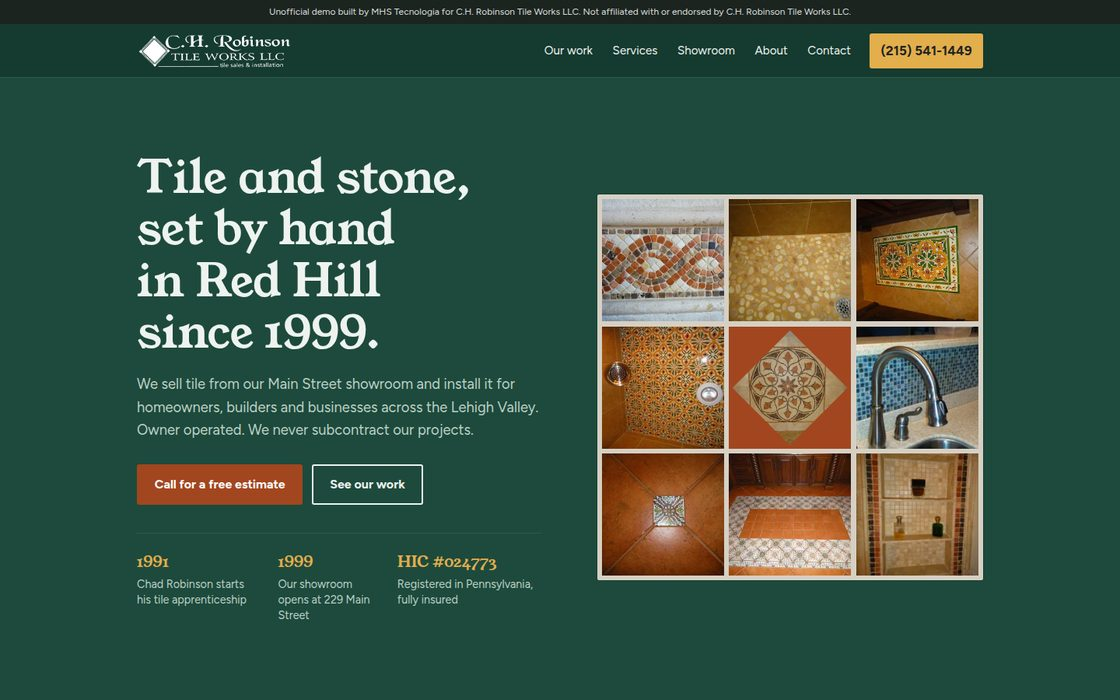
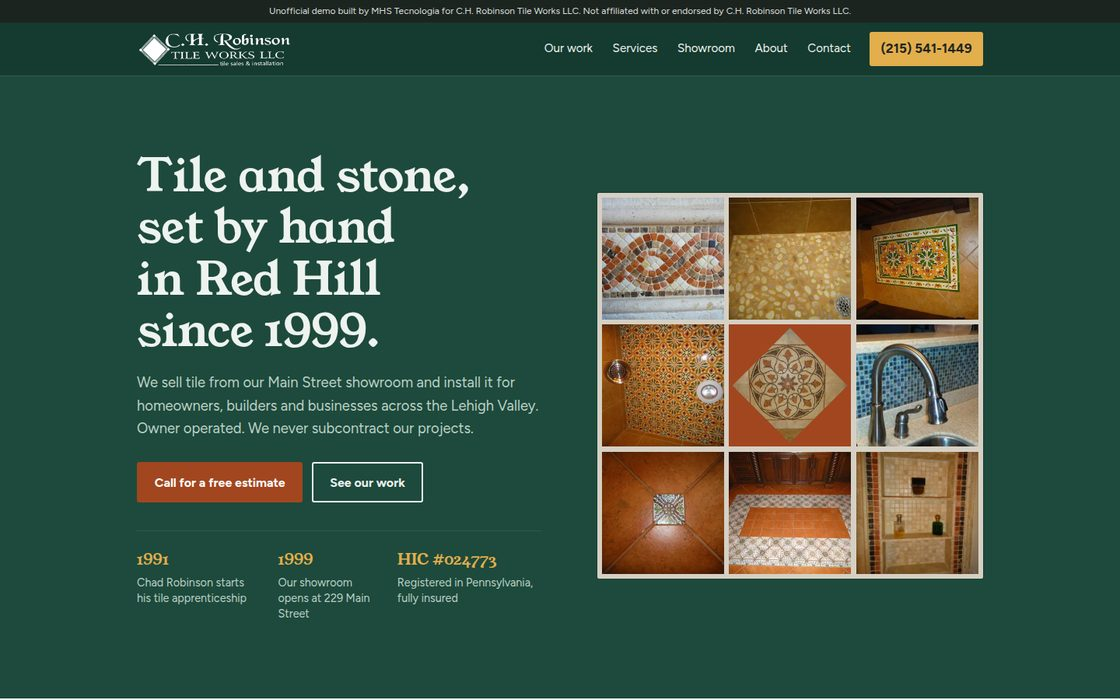
Previews: 18 ativos

diff --git a/ch-robinson-tile-works-red-hill-pa/index.html b/ch-robinson-tile-works-red-hill-pa/index.html
@@ -53,7 +53,7 @@
   .skip:focus { left: 1rem; }
   h1, h2, h3 { font-family: var(--serif); font-weight: 400; line-height: 1.12; letter-spacing: -.005em; text-wrap: balance; }
 
-  .demo { background: var(--ink); color: #d9ded9; font-size: .75rem; line-height: 1.4; padding: .45rem var(--pad); text-align: center; }
+  .demo { background: var(--ink); color: #d9ded9; font-size: .75rem; line-height: 1.35; padding: .4rem var(--pad); text-align: center; }
 
   /* header */
   .top { background: var(--green-2); color: var(--on-green); border-bottom: 1px solid var(--grout-dark); }
@@ -115,6 +115,7 @@
   .frame { padding: 8px; background: var(--grout); }
   .frame img { width: 100%; }
 
+  .listello { height: 22px; background-color: var(--grout); background-image: repeating-linear-gradient(90deg, var(--clay) 0 18px, var(--grout) 18px 22px, var(--green) 22px 40px, var(--grout) 40px 44px, var(--ochre) 44px 62px, var(--grout) 62px 66px, var(--green) 66px 84px, var(--grout) 84px 88px); background-size: 100% 18px; background-position: 0 2px; background-repeat: repeat-x; }
   .house { padding: 5rem 0; background: var(--paper); }
   .house-in { display: grid; grid-template-columns: minmax(0, 35rem) minmax(0, 1fr); gap: clamp(2rem, 5vw, 4.5rem); align-items: center; }
   .house h2 { font-size: clamp(1.6rem, 1.1rem + 1.5vw, 2.25rem); }
@@ -138,10 +139,11 @@
   .appt a { color: var(--clay); }
 
   .words { padding: 5rem 0; background: var(--bisque); border-top: 1px solid var(--grout); }
-  .quotes { margin-top: 2rem; display: grid; grid-template-columns: 2fr 1fr 1fr; gap: 6px; background: var(--grout); padding: 6px; }
-  .quotes blockquote { background: var(--paper); padding: 1.75rem; }
-  .quotes p { font-family: var(--serif); font-size: 1.2rem; line-height: 1.4; }
-  .quotes .q-big p { font-size: 1.45rem; }
+  .quotes { margin-top: 2rem; max-width: 48rem; }
+  .quotes blockquote { padding: 1.5rem 0 1.5rem 2.25rem; border-top: 1px solid var(--grout); position: relative; }
+  .quotes blockquote:last-child { border-bottom: 1px solid var(--grout); }
+  .quotes blockquote::before { content: ""; position: absolute; left: .35rem; top: 2.05rem; width: .7rem; height: .7rem; background: var(--clay); transform: rotate(45deg); }
+  .quotes p { font-family: var(--serif); font-size: 1.35rem; line-height: 1.4; }
   .quotes footer { margin-top: 1rem; font-size: .95rem; color: var(--muted); }
 
   .call { background: var(--green); color: var(--on-green); padding: 4rem 0; }
@@ -169,9 +171,11 @@
   /* showroom */
   .mats-sec { padding: 4.5rem 0; }
   .mats-in { display: grid; grid-template-columns: minmax(0, 22rem) minmax(0, 1fr); gap: clamp(2rem, 5vw, 4.5rem); }
-  .mats { margin-top: 1.25rem; display: grid; grid-template-columns: 1fr 1fr; gap: 6px; background: var(--grout); padding: 6px; }
-  .mats li { background: var(--paper); padding: .9rem 1rem; font-family: var(--serif); font-size: 1.15rem; }
-  .mats li:last-child:nth-child(odd) { grid-column: span 2; }
+  .mats { margin-top: 1.25rem; display: grid; grid-template-columns: 1fr 1fr; column-gap: 1.5rem; }
+  .mats li { position: relative; padding: .45rem 0 .45rem 1.5rem; font-family: var(--serif); font-size: 1.2rem; }
+  .mats li::before { content: ""; position: absolute; left: .15rem; top: .95rem; width: .62rem; height: .62rem; background: var(--clay); transform: rotate(45deg); }
+  .mats li:nth-child(3n+2)::before { background: var(--green); }
+  .mats li:nth-child(3n)::before { background: var(--ochre); }
   .mats-copy p { margin-top: 1rem; max-width: 38rem; color: var(--muted); }
   .mats-copy h2 { margin-top: 2.5rem; }
   .gal-sec .appt { margin-top: 1.5rem; }
@@ -240,7 +244,9 @@
     .phead-in.has-pic { grid-template-columns: 1fr; gap: 1.75rem; }
     .house-in, .shop-in, .mats-in, .story-in { grid-template-columns: 1fr; }
     .shop-in .frame { order: -1; }
-    .quotes { grid-template-columns: 1fr; }
+    .quotes p { font-size: 1.2rem; }
+    .quotes blockquote { padding-left: 1.9rem; }
+    .demo { font-size: .64rem; line-height: 1.3; padding: .3rem .5rem; }
     .reach-in { grid-template-columns: 1fr; }
     .svcs { grid-template-columns: 1fr; }
     .foot-in { grid-template-columns: 1fr; }
@@ -342,6 +348,7 @@
   </div>
 </section>
 
+<div class="listello" aria-hidden="true"></div>
 <section class="rooms-sec">
   <div class="wrap">
     <h2 class="sec-h">What we install</h2>
@@ -372,6 +379,7 @@
   </div>
 </section>
 
+<div class="listello" aria-hidden="true"></div>
 <section class="shop">
   <div class="wrap shop-in">
     <div class="shop-copy">
@@ -387,11 +395,12 @@
   </div>
 </section>
 
+<div class="listello" aria-hidden="true"></div>
 <section class="words">
   <div class="wrap">
     <h2 class="sec-h">From our customers</h2>
     <div class="quotes">
-      <blockquote class="q-big"><p>The dining room floor looks great. The guys put tarps down each morning and cleaned up at the end of each day. They laid the tile as if it was their own house.</p><footer>Grey G., Telford, PA</footer></blockquote>
+      <blockquote><p>The dining room floor looks great. The guys put tarps down each morning and cleaned up at the end of each day. They laid the tile as if it was their own house.</p><footer>Grey G., Telford, PA</footer></blockquote>
       <blockquote><p>Saw the work they did in my father’s house. Very nice work! Would highly recommend!</p></blockquote>
       <blockquote><p>Great people, awesome work!</p></blockquote>
     </div>

diff --git a/ch-robinson-tile-works-red-hill-pa/contact.html b/ch-robinson-tile-works-red-hill-pa/contact.html
@@ -53,7 +53,7 @@
   .skip:focus { left: 1rem; }
   h1, h2, h3 { font-family: var(--serif); font-weight: 400; line-height: 1.12; letter-spacing: -.005em; text-wrap: balance; }
 
-  .demo { background: var(--ink); color: #d9ded9; font-size: .75rem; line-height: 1.4; padding: .45rem var(--pad); text-align: center; }
+  .demo { background: var(--ink); color: #d9ded9; font-size: .75rem; line-height: 1.35; padding: .4rem var(--pad); text-align: center; }
 
   /* header */
   .top { background: var(--green-2); color: var(--on-green); border-bottom: 1px solid var(--grout-dark); }
@@ -115,6 +115,7 @@
   .frame { padding: 8px; background: var(--grout); }
   .frame img { width: 100%; }
 
+  .listello { height: 22px; background-color: var(--grout); background-image: repeating-linear-gradient(90deg, var(--clay) 0 18px, var(--grout) 18px 22px, var(--green) 22px 40px, var(--grout) 40px 44px, var(--ochre) 44px 62px, var(--grout) 62px 66px, var(--green) 66px 84px, var(--grout) 84px 88px); background-size: 100% 18px; background-position: 0 2px; background-repeat: repeat-x; }
   .house { padding: 5rem 0; background: var(--paper); }
   .house-in { display: grid; grid-template-columns: minmax(0, 35rem) minmax(0, 1fr); gap: clamp(2rem, 5vw, 4.5rem); align-items: center; }
   .house h2 { font-size: clamp(1.6rem, 1.1rem + 1.5vw, 2.25rem); }
@@ -138,10 +139,11 @@
   .appt a { color: var(--clay); }
 
   .words { padding: 5rem 0; background: var(--bisque); border-top: 1px solid var(--grout); }
-  .quotes { margin-top: 2rem; display: grid; grid-template-columns: 2fr 1fr 1fr; gap: 6px; background: var(--grout); padding: 6px; }
-  .quotes blockquote { background: var(--paper); padding: 1.75rem; }
-  .quotes p { font-family: var(--serif); font-size: 1.2rem; line-height: 1.4; }
-  .quotes .q-big p { font-size: 1.45rem; }
+  .quotes { margin-top: 2rem; max-width: 48rem; }
+  .quotes blockquote { padding: 1.5rem 0 1.5rem 2.25rem; border-top: 1px solid var(--grout); position: relative; }
+  .quotes blockquote:last-child { border-bottom: 1px solid var(--grout); }
+  .quotes blockquote::before { content: ""; position: absolute; left: .35rem; top: 2.05rem; width: .7rem; height: .7rem; background: var(--clay); transform: rotate(45deg); }
+  .quotes p { font-family: var(--serif); font-size: 1.35rem; line-height: 1.4; }
   .quotes footer { margin-top: 1rem; font-size: .95rem; color: var(--muted); }
 
   .call { background: var(--green); color: var(--on-green); padding: 4rem 0; }
@@ -169,9 +171,11 @@
   /* showroom */
   .mats-sec { padding: 4.5rem 0; }
   .mats-in { display: grid; grid-template-columns: minmax(0, 22rem) minmax(0, 1fr); gap: clamp(2rem, 5vw, 4.5rem); }
-  .mats { margin-top: 1.25rem; display: grid; grid-template-columns: 1fr 1fr; gap: 6px; background: var(--grout); padding: 6px; }
-  .mats li { background: var(--paper); padding: .9rem 1rem; font-family: var(--serif); font-size: 1.15rem; }
-  .mats li:last-child:nth-child(odd) { grid-column: span 2; }
+  .mats { margin-top: 1.25rem; display: grid; grid-template-columns: 1fr 1fr; column-gap: 1.5rem; }
+  .mats li { position: relative; padding: .45rem 0 .45rem 1.5rem; font-family: var(--serif); font-size: 1.2rem; }
+  .mats li::before { content: ""; position: absolute; left: .15rem; top: .95rem; width: .62rem; height: .62rem; background: var(--clay); transform: rotate(45deg); }
+  .mats li:nth-child(3n+2)::before { background: var(--green); }
+  .mats li:nth-child(3n)::before { background: var(--ochre); }
   .mats-copy p { margin-top: 1rem; max-width: 38rem; color: var(--muted); }
   .mats-copy h2 { margin-top: 2.5rem; }
   .gal-sec .appt { margin-top: 1.5rem; }
@@ -240,7 +244,9 @@
     .phead-in.has-pic { grid-template-columns: 1fr; gap: 1.75rem; }
     .house-in, .shop-in, .mats-in, .story-in { grid-template-columns: 1fr; }
     .shop-in .frame { order: -1; }
-    .quotes { grid-template-columns: 1fr; }
+    .quotes p { font-size: 1.2rem; }
+    .quotes blockquote { padding-left: 1.9rem; }
+    .demo { font-size: .64rem; line-height: 1.3; padding: .3rem .5rem; }
     .reach-in { grid-template-columns: 1fr; }
     .svcs { grid-template-columns: 1fr; }
     .foot-in { grid-template-columns: 1fr; }
@@ -322,7 +328,7 @@
     <div class="reach-card">
       <h2>Email</h2>
       <p><a class="big mail" href="mailto:chad@chrobinsontileworks.com">chad@chrobinsontileworks.com</a></p>
-      <p class="muted">Tell us about the room. Photos are welcome.</p>
+      <p class="muted">What to send Chad: which room it is, roughly how big, and a photo of it as it is now, plus any tile you already have in mind.</p>
     </div>
     <div class="reach-card">
       <h2>Showroom</h2>

diff --git a/ch-robinson-tile-works-red-hill-pa/about.html b/ch-robinson-tile-works-red-hill-pa/about.html
@@ -53,7 +53,7 @@
   .skip:focus { left: 1rem; }
   h1, h2, h3 { font-family: var(--serif); font-weight: 400; line-height: 1.12; letter-spacing: -.005em; text-wrap: balance; }
 
-  .demo { background: var(--ink); color: #d9ded9; font-size: .75rem; line-height: 1.4; padding: .45rem var(--pad); text-align: center; }
+  .demo { background: var(--ink); color: #d9ded9; font-size: .75rem; line-height: 1.35; padding: .4rem var(--pad); text-align: center; }
 
   /* header */
   .top { background: var(--green-2); color: var(--on-green); border-bottom: 1px solid var(--grout-dark); }
@@ -115,6 +115,7 @@
   .frame { padding: 8px; background: var(--grout); }
   .frame img { width: 100%; }
 
+  .listello { height: 22px; background-color: var(--grout); background-image: repeating-linear-gradient(90deg, var(--clay) 0 18px, var(--grout) 18px 22px, var(--green) 22px 40px, var(--grout) 40px 44px, var(--ochre) 44px 62px, var(--grout) 62px 66px, var(--green) 66px 84px, var(--grout) 84px 88px); background-size: 100% 18px; background-position: 0 2px; background-repeat: repeat-x; }
   .house { padding: 5rem 0; background: var(--paper); }
   .house-in { display: grid; grid-template-columns: minmax(0, 35rem) minmax(0, 1fr); gap: clamp(2rem, 5vw, 4.5rem); align-items: center; }
   .house h2 { font-size: clamp(1.6rem, 1.1rem + 1.5vw, 2.25rem); }
@@ -138,10 +139,11 @@
   .appt a { color: var(--clay); }
 
   .words { padding: 5rem 0; background: var(--bisque); border-top: 1px solid var(--grout); }
-  .quotes { margin-top: 2rem; display: grid; grid-template-columns: 2fr 1fr 1fr; gap: 6px; background: var(--grout); padding: 6px; }
-  .quotes blockquote { background: var(--paper); padding: 1.75rem; }
-  .quotes p { font-family: var(--serif); font-size: 1.2rem; line-height: 1.4; }
-  .quotes .q-big p { font-size: 1.45rem; }
+  .quotes { margin-top: 2rem; max-width: 48rem; }
+  .quotes blockquote { padding: 1.5rem 0 1.5rem 2.25rem; border-top: 1px solid var(--grout); position: relative; }
+  .quotes blockquote:last-child { border-bottom: 1px solid var(--grout); }
+  .quotes blockquote::before { content: ""; position: absolute; left: .35rem; top: 2.05rem; width: .7rem; height: .7rem; background: var(--clay); transform: rotate(45deg); }
+  .quotes p { font-family: var(--serif); font-size: 1.35rem; line-height: 1.4; }
   .quotes footer { margin-top: 1rem; font-size: .95rem; color: var(--muted); }
 
   .call { background: var(--green); color: var(--on-green); padding: 4rem 0; }
@@ -169,9 +171,11 @@
   /* showroom */
   .mats-sec { padding: 4.5rem 0; }
   .mats-in { display: grid; grid-template-columns: minmax(0, 22rem) minmax(0, 1fr); gap: clamp(2rem, 5vw, 4.5rem); }
-  .mats { margin-top: 1.25rem; display: grid; grid-template-columns: 1fr 1fr; gap: 6px; background: var(--grout); padding: 6px; }
-  .mats li { background: var(--paper); padding: .9rem 1rem; font-family: var(--serif); font-size: 1.15rem; }
-  .mats li:last-child:nth-child(odd) { grid-column: span 2; }
+  .mats { margin-top: 1.25rem; display: grid; grid-template-columns: 1fr 1fr; column-gap: 1.5rem; }
+  .mats li { position: relative; padding: .45rem 0 .45rem 1.5rem; font-family: var(--serif); font-size: 1.2rem; }
+  .mats li::before { content: ""; position: absolute; left: .15rem; top: .95rem; width: .62rem; height: .62rem; background: var(--clay); transform: rotate(45deg); }
+  .mats li:nth-child(3n+2)::before { background: var(--green); }
+  .mats li:nth-child(3n)::before { background: var(--ochre); }
   .mats-copy p { margin-top: 1rem; max-width: 38rem; color: var(--muted); }
   .mats-copy h2 { margin-top: 2.5rem; }
   .gal-sec .appt { margin-top: 1.5rem; }
@@ -240,7 +244,9 @@
     .phead-in.has-pic { grid-template-columns: 1fr; gap: 1.75rem; }
     .house-in, .shop-in, .mats-in, .story-in { grid-template-columns: 1fr; }
     .shop-in .frame { order: -1; }
-    .quotes { grid-template-columns: 1fr; }
+    .quotes p { font-size: 1.2rem; }
+    .quotes blockquote { padding-left: 1.9rem; }
+    .demo { font-size: .64rem; line-height: 1.3; padding: .3rem .5rem; }
     .reach-in { grid-template-columns: 1fr; }
     .svcs { grid-template-columns: 1fr; }
     .foot-in { grid-template-columns: 1fr; }

diff --git a/ch-robinson-tile-works-red-hill-pa/services.html b/ch-robinson-tile-works-red-hill-pa/services.html
@@ -53,7 +53,7 @@
   .skip:focus { left: 1rem; }
   h1, h2, h3 { font-family: var(--serif); font-weight: 400; line-height: 1.12; letter-spacing: -.005em; text-wrap: balance; }
 
-  .demo { background: var(--ink); color: #d9ded9; font-size: .75rem; line-height: 1.4; padding: .45rem var(--pad); text-align: center; }
+  .demo { background: var(--ink); color: #d9ded9; font-size: .75rem; line-height: 1.35; padding: .4rem var(--pad); text-align: center; }
 
   /* header */
   .top { background: var(--green-2); color: var(--on-green); border-bottom: 1px solid var(--grout-dark); }
@@ -115,6 +115,7 @@
   .frame { padding: 8px; background: var(--grout); }
   .frame img { width: 100%; }
 
+  .listello { height: 22px; background-color: var(--grout); background-image: repeating-linear-gradient(90deg, var(--clay) 0 18px, var(--grout) 18px 22px, var(--green) 22px 40px, var(--grout) 40px 44px, var(--ochre) 44px 62px, var(--grout) 62px 66px, var(--green) 66px 84px, var(--grout) 84px 88px); background-size: 100% 18px; background-position: 0 2px; background-repeat: repeat-x; }
   .house { padding: 5rem 0; background: var(--paper); }
   .house-in { display: grid; grid-template-columns: minmax(0, 35rem) minmax(0, 1fr); gap: clamp(2rem, 5vw, 4.5rem); align-items: center; }
   .house h2 { font-size: clamp(1.6rem, 1.1rem + 1.5vw, 2.25rem); }
@@ -138,10 +139,11 @@
   .appt a { color: var(--clay); }
 
   .words { padding: 5rem 0; background: var(--bisque); border-top: 1px solid var(--grout); }
-  .quotes { margin-top: 2rem; display: grid; grid-template-columns: 2fr 1fr 1fr; gap: 6px; background: var(--grout); padding: 6px; }
-  .quotes blockquote { background: var(--paper); padding: 1.75rem; }
-  .quotes p { font-family: var(--serif); font-size: 1.2rem; line-height: 1.4; }
-  .quotes .q-big p { font-size: 1.45rem; }
+  .quotes { margin-top: 2rem; max-width: 48rem; }
+  .quotes blockquote { padding: 1.5rem 0 1.5rem 2.25rem; border-top: 1px solid var(--grout); position: relative; }
+  .quotes blockquote:last-child { border-bottom: 1px solid var(--grout); }
+  .quotes blockquote::before { content: ""; position: absolute; left: .35rem; top: 2.05rem; width: .7rem; height: .7rem; background: var(--clay); transform: rotate(45deg); }
+  .quotes p { font-family: var(--serif); font-size: 1.35rem; line-height: 1.4; }
   .quotes footer { margin-top: 1rem; font-size: .95rem; color: var(--muted); }
 
   .call { background: var(--green); color: var(--on-green); padding: 4rem 0; }
@@ -169,9 +171,11 @@
   /* showroom */
   .mats-sec { padding: 4.5rem 0; }
   .mats-in { display: grid; grid-template-columns: minmax(0, 22rem) minmax(0, 1fr); gap: clamp(2rem, 5vw, 4.5rem); }
-  .mats { margin-top: 1.25rem; display: grid; grid-template-columns: 1fr 1fr; gap: 6px; background: var(--grout); padding: 6px; }
-  .mats li { background: var(--paper); padding: .9rem 1rem; font-family: var(--serif); font-size: 1.15rem; }
-  .mats li:last-child:nth-child(odd) { grid-column: span 2; }
+  .mats { margin-top: 1.25rem; display: grid; grid-template-columns: 1fr 1fr; column-gap: 1.5rem; }
+  .mats li { position: relative; padding: .45rem 0 .45rem 1.5rem; font-family: var(--serif); font-size: 1.2rem; }
+  .mats li::before { content: ""; position: absolute; left: .15rem; top: .95rem; width: .62rem; height: .62rem; background: var(--clay); transform: rotate(45deg); }
+  .mats li:nth-child(3n+2)::before { background: var(--green); }
+  .mats li:nth-child(3n)::before { background: var(--ochre); }
   .mats-copy p { margin-top: 1rem; max-width: 38rem; color: var(--muted); }
   .mats-copy h2 { margin-top: 2.5rem; }
   .gal-sec .appt { margin-top: 1.5rem; }
@@ -240,7 +244,9 @@
     .phead-in.has-pic { grid-template-columns: 1fr; gap: 1.75rem; }
     .house-in, .shop-in, .mats-in, .story-in { grid-template-columns: 1fr; }
     .shop-in .frame { order: -1; }
-    .quotes { grid-template-columns: 1fr; }
+    .quotes p { font-size: 1.2rem; }
+    .quotes blockquote { padding-left: 1.9rem; }
+    .demo { font-size: .64rem; line-height: 1.3; padding: .3rem .5rem; }
     .reach-in { grid-template-columns: 1fr; }
     .svcs { grid-template-columns: 1fr; }
     .foot-in { grid-template-columns: 1fr; }

diff --git a/ch-robinson-tile-works-red-hill-pa/showroom.html b/ch-robinson-tile-works-red-hill-pa/showroom.html
@@ -53,7 +53,7 @@
   .skip:focus { left: 1rem; }
   h1, h2, h3 { font-family: var(--serif); font-weight: 400; line-height: 1.12; letter-spacing: -.005em; text-wrap: balance; }
 
-  .demo { background: var(--ink); color: #d9ded9; font-size: .75rem; line-height: 1.4; padding: .45rem var(--pad); text-align: center; }
+  .demo { background: var(--ink); color: #d9ded9; font-size: .75rem; line-height: 1.35; padding: .4rem var(--pad); text-align: center; }
 
   /* header */
   .top { background: var(--green-2); color: var(--on-green); border-bottom: 1px solid var(--grout-dark); }
@@ -115,6 +115,7 @@
   .frame { padding: 8px; background: var(--grout); }
   .frame img { width: 100%; }
 
+  .listello { height: 22px; background-color: var(--grout); background-image: repeating-linear-gradient(90deg, var(--clay) 0 18px, var(--grout) 18px 22px, var(--green) 22px 40px, var(--grout) 40px 44px, var(--ochre) 44px 62px, var(--grout) 62px 66px, var(--green) 66px 84px, var(--grout) 84px 88px); background-size: 100% 18px; background-position: 0 2px; background-repeat: repeat-x; }
   .house { padding: 5rem 0; background: var(--paper); }
   .house-in { display: grid; grid-template-columns: minmax(0, 35rem) minmax(0, 1fr); gap: clamp(2rem, 5vw, 4.5rem); align-items: center; }
   .house h2 { font-size: clamp(1.6rem, 1.1rem + 1.5vw, 2.25rem); }
@@ -138,10 +139,11 @@
   .appt a { color: var(--clay); }
 
   .words { padding: 5rem 0; background: var(--bisque); border-top: 1px solid var(--grout); }
-  .quotes { margin-top: 2rem; display: grid; grid-template-columns: 2fr 1fr 1fr; gap: 6px; background: var(--grout); padding: 6px; }
-  .quotes blockquote { background: var(--paper); padding: 1.75rem; }
-  .quotes p { font-family: var(--serif); font-size: 1.2rem; line-height: 1.4; }
-  .quotes .q-big p { font-size: 1.45rem; }
+  .quotes { margin-top: 2rem; max-width: 48rem; }
+  .quotes blockquote { padding: 1.5rem 0 1.5rem 2.25rem; border-top: 1px solid var(--grout); position: relative; }
+  .quotes blockquote:last-child { border-bottom: 1px solid var(--grout); }
+  .quotes blockquote::before { content: ""; position: absolute; left: .35rem; top: 2.05rem; width: .7rem; height: .7rem; background: var(--clay); transform: rotate(45deg); }
+  .quotes p { font-family: var(--serif); font-size: 1.35rem; line-height: 1.4; }
   .quotes footer { margin-top: 1rem; font-size: .95rem; color: var(--muted); }
 
   .call { background: var(--green); color: var(--on-green); padding: 4rem 0; }
@@ -169,9 +171,11 @@
   /* showroom */
   .mats-sec { padding: 4.5rem 0; }
   .mats-in { display: grid; grid-template-columns: minmax(0, 22rem) minmax(0, 1fr); gap: clamp(2rem, 5vw, 4.5rem); }
-  .mats { margin-top: 1.25rem; display: grid; grid-template-columns: 1fr 1fr; gap: 6px; background: var(--grout); padding: 6px; }
-  .mats li { background: var(--paper); padding: .9rem 1rem; font-family: var(--serif); font-size: 1.15rem; }
-  .mats li:last-child:nth-child(odd) { grid-column: span 2; }
+  .mats { margin-top: 1.25rem; display: grid; grid-template-columns: 1fr 1fr; column-gap: 1.5rem; }
+  .mats li { position: relative; padding: .45rem 0 .45rem 1.5rem; font-family: var(--serif); font-size: 1.2rem; }
+  .mats li::before { content: ""; position: absolute; left: .15rem; top: .95rem; width: .62rem; height: .62rem; background: var(--clay); transform: rotate(45deg); }
+  .mats li:nth-child(3n+2)::before { background: var(--green); }
+  .mats li:nth-child(3n)::before { background: var(--ochre); }
   .mats-copy p { margin-top: 1rem; max-width: 38rem; color: var(--muted); }
   .mats-copy h2 { margin-top: 2.5rem; }
   .gal-sec .appt { margin-top: 1.5rem; }
@@ -240,7 +244,9 @@
     .phead-in.has-pic { grid-template-columns: 1fr; gap: 1.75rem; }
     .house-in, .shop-in, .mats-in, .story-in { grid-template-columns: 1fr; }
     .shop-in .frame { order: -1; }
-    .quotes { grid-template-columns: 1fr; }
+    .quotes p { font-size: 1.2rem; }
+    .quotes blockquote { padding-left: 1.9rem; }
+    .demo { font-size: .64rem; line-height: 1.3; padding: .3rem .5rem; }
     .reach-in { grid-template-columns: 1fr; }
     .svcs { grid-template-columns: 1fr; }
     .foot-in { grid-template-columns: 1fr; }

diff --git a/ch-robinson-tile-works-red-hill-pa/work.html b/ch-robinson-tile-works-red-hill-pa/work.html
@@ -53,7 +53,7 @@
   .skip:focus { left: 1rem; }
   h1, h2, h3 { font-family: var(--serif); font-weight: 400; line-height: 1.12; letter-spacing: -.005em; text-wrap: balance; }
 
-  .demo { background: var(--ink); color: #d9ded9; font-size: .75rem; line-height: 1.4; padding: .45rem var(--pad); text-align: center; }
+  .demo { background: var(--ink); color: #d9ded9; font-size: .75rem; line-height: 1.35; padding: .4rem var(--pad); text-align: center; }
 
   /* header */
   .top { background: var(--green-2); color: var(--on-green); border-bottom: 1px solid var(--grout-dark); }
@@ -115,6 +115,7 @@
   .frame { padding: 8px; background: var(--grout); }
   .frame img { width: 100%; }
 
+  .listello { height: 22px; background-color: var(--grout); background-image: repeating-linear-gradient(90deg, var(--clay) 0 18px, var(--grout) 18px 22px, var(--green) 22px 40px, var(--grout) 40px 44px, var(--ochre) 44px 62px, var(--grout) 62px 66px, var(--green) 66px 84px, var(--grout) 84px 88px); background-size: 100% 18px; background-position: 0 2px; background-repeat: repeat-x; }
   .house { padding: 5rem 0; background: var(--paper); }
   .house-in { display: grid; grid-template-columns: minmax(0, 35rem) minmax(0, 1fr); gap: clamp(2rem, 5vw, 4.5rem); align-items: center; }
   .house h2 { font-size: clamp(1.6rem, 1.1rem + 1.5vw, 2.25rem); }
@@ -138,10 +139,11 @@
   .appt a { color: var(--clay); }
 
   .words { padding: 5rem 0; background: var(--bisque); border-top: 1px solid var(--grout); }
-  .quotes { margin-top: 2rem; display: grid; grid-template-columns: 2fr 1fr 1fr; gap: 6px; background: var(--grout); padding: 6px; }
-  .quotes blockquote { background: var(--paper); padding: 1.75rem; }
-  .quotes p { font-family: var(--serif); font-size: 1.2rem; line-height: 1.4; }
-  .quotes .q-big p { font-size: 1.45rem; }
+  .quotes { margin-top: 2rem; max-width: 48rem; }
+  .quotes blockquote { padding: 1.5rem 0 1.5rem 2.25rem; border-top: 1px solid var(--grout); position: relative; }
+  .quotes blockquote:last-child { border-bottom: 1px solid var(--grout); }
+  .quotes blockquote::before { content: ""; position: absolute; left: .35rem; top: 2.05rem; width: .7rem; height: .7rem; background: var(--clay); transform: rotate(45deg); }
+  .quotes p { font-family: var(--serif); font-size: 1.35rem; line-height: 1.4; }
   .quotes footer { margin-top: 1rem; font-size: .95rem; color: var(--muted); }
 
   .call { background: var(--green); color: var(--on-green); padding: 4rem 0; }
@@ -169,9 +171,11 @@
   /* showroom */
   .mats-sec { padding: 4.5rem 0; }
   .mats-in { display: grid; grid-template-columns: minmax(0, 22rem) minmax(0, 1fr); gap: clamp(2rem, 5vw, 4.5rem); }
-  .mats { margin-top: 1.25rem; display: grid; grid-template-columns: 1fr 1fr; gap: 6px; background: var(--grout); padding: 6px; }
-  .mats li { background: var(--paper); padding: .9rem 1rem; font-family: var(--serif); font-size: 1.15rem; }
-  .mats li:last-child:nth-child(odd) { grid-column: span 2; }
+  .mats { margin-top: 1.25rem; display: grid; grid-template-columns: 1fr 1fr; column-gap: 1.5rem; }
+  .mats li { position: relative; padding: .45rem 0 .45rem 1.5rem; font-family: var(--serif); font-size: 1.2rem; }
+  .mats li::before { content: ""; position: absolute; left: .15rem; top: .95rem; width: .62rem; height: .62rem; background: var(--clay); transform: rotate(45deg); }
+  .mats li:nth-child(3n+2)::before { background: var(--green); }
+  .mats li:nth-child(3n)::before { background: var(--ochre); }
   .mats-copy p { margin-top: 1rem; max-width: 38rem; color: var(--muted); }
   .mats-copy h2 { margin-top: 2.5rem; }
   .gal-sec .appt { margin-top: 1.5rem; }
@@ -240,7 +244,9 @@
     .phead-in.has-pic { grid-template-columns: 1fr; gap: 1.75rem; }
     .house-in, .shop-in, .mats-in, .story-in { grid-template-columns: 1fr; }
     .shop-in .frame { order: -1; }
-    .quotes { grid-template-columns: 1fr; }
+    .quotes p { font-size: 1.2rem; }
+    .quotes blockquote { padding-left: 1.9rem; }
+    .demo { font-size: .64rem; line-height: 1.3; padding: .3rem .5rem; }
     .reach-in { grid-template-columns: 1fr; }
     .svcs { grid-template-columns: 1fr; }
     .foot-in { grid-template-columns: 1fr; }
